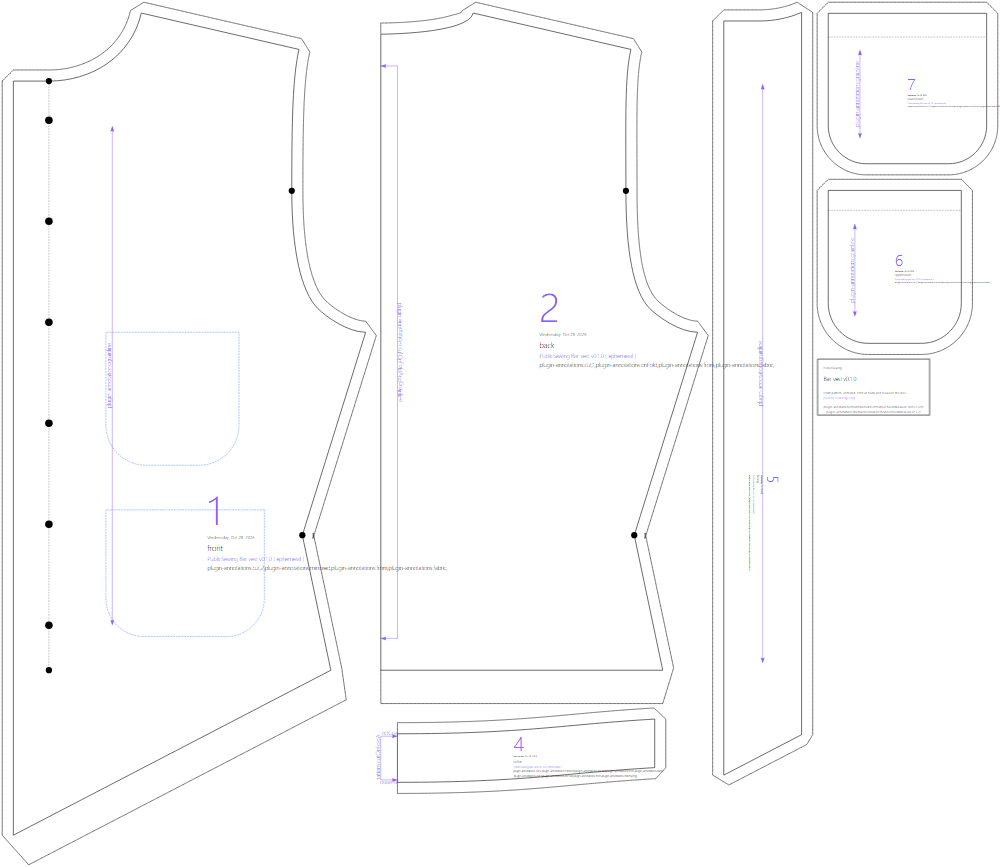
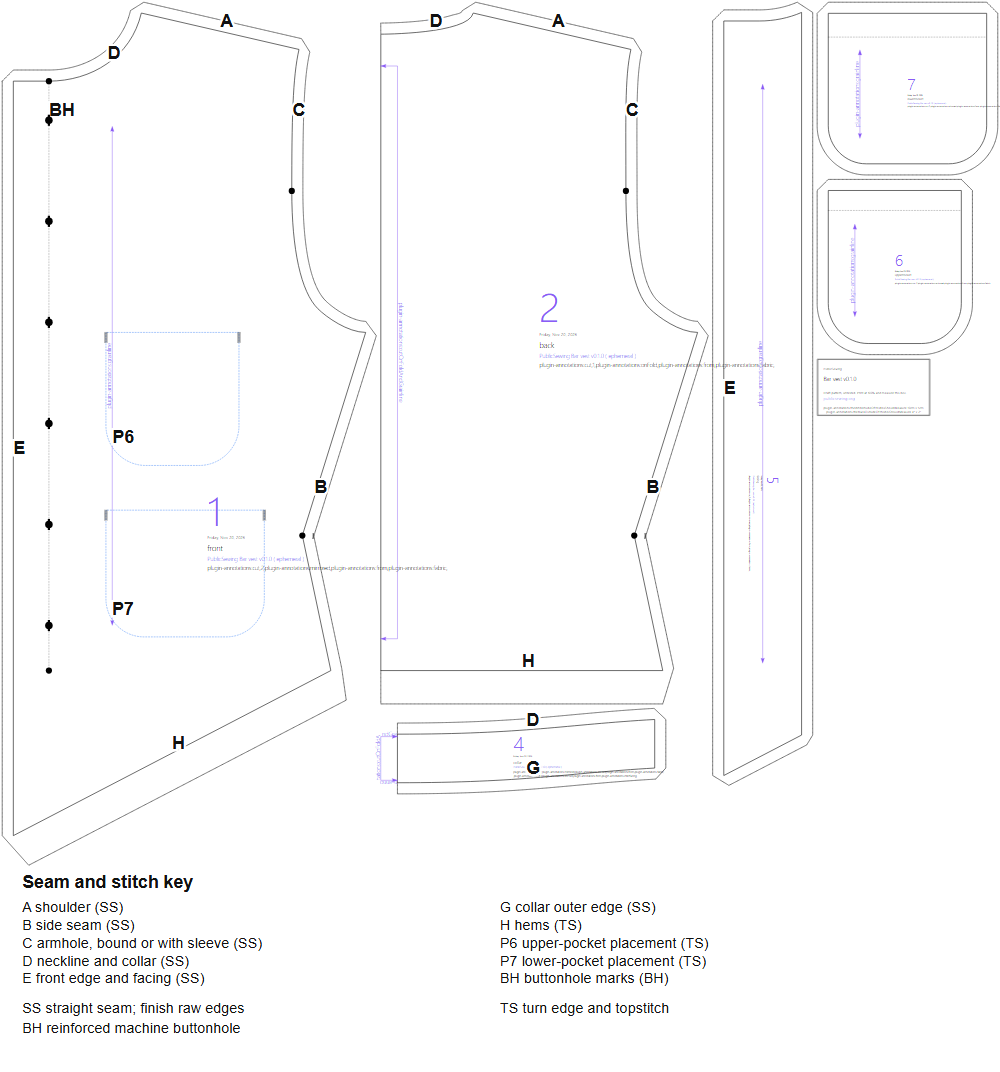
Map the bar vest, with optional sleeves and collar
Buttonhole marks are now drafted.

diff --git a/designs/bar-vest/BRIEF.md b/designs/bar-vest/BRIEF.md
@@ -47,7 +47,9 @@ collar) at every adult, stout and children's set:
 
 ## Construction
 
-1. Interface the front facings and one collar layer if using the standing collar. Finish the patch-pocket tops, press their remaining edges under, and topstitch them to the fronts.
-2. Sew the shoulder and side seams. If adding sleeves, sew them into the armholes and close their underarm seams; otherwise bind the armhole edges.
-3. Join the collar layers, turn and press, then attach the collar to the neckline. Sew the facings to the fronts, including the pointed lower corners, and turn and press.
-4. Hem the back and fronts. Work the six front buttonholes and sew on the buttons at the marked centres.
+Letters are the seam and placement codes on the pattern map; numbers are printed on the pieces. **SS** straight seam with finished edges, **TS** topstitch, **BH** machine buttonhole.
+
+1. Interface the front facings **5** and one collar layer **4** if using the standing collar. Finish the patch-pocket tops of pockets **6** and **7**, press their remaining edges under, and topstitch them with **TS** to the fronts **1** at **P6** and **P7**.
+2. Sew the shoulder seams **A** and side seams **B** of the fronts **1** and back **2**. If adding sleeves **3**, set them into the armholes **C** and close their underarm seams **F**; otherwise bind the armhole edges **C**.
+3. Join the collar layers **4** along **G**, turn and press, then attach the collar to the neckline **D** of the fronts **1** and back **2**. Sew the facings **5** to the front edges **E**, including the pointed lower corners, and turn and press.
+4. Hem the back **2**, fronts **1** and any sleeves **3** along **H** with **TS**. Work the six front buttonholes **BH** and sew on the buttons at the marked centres.
